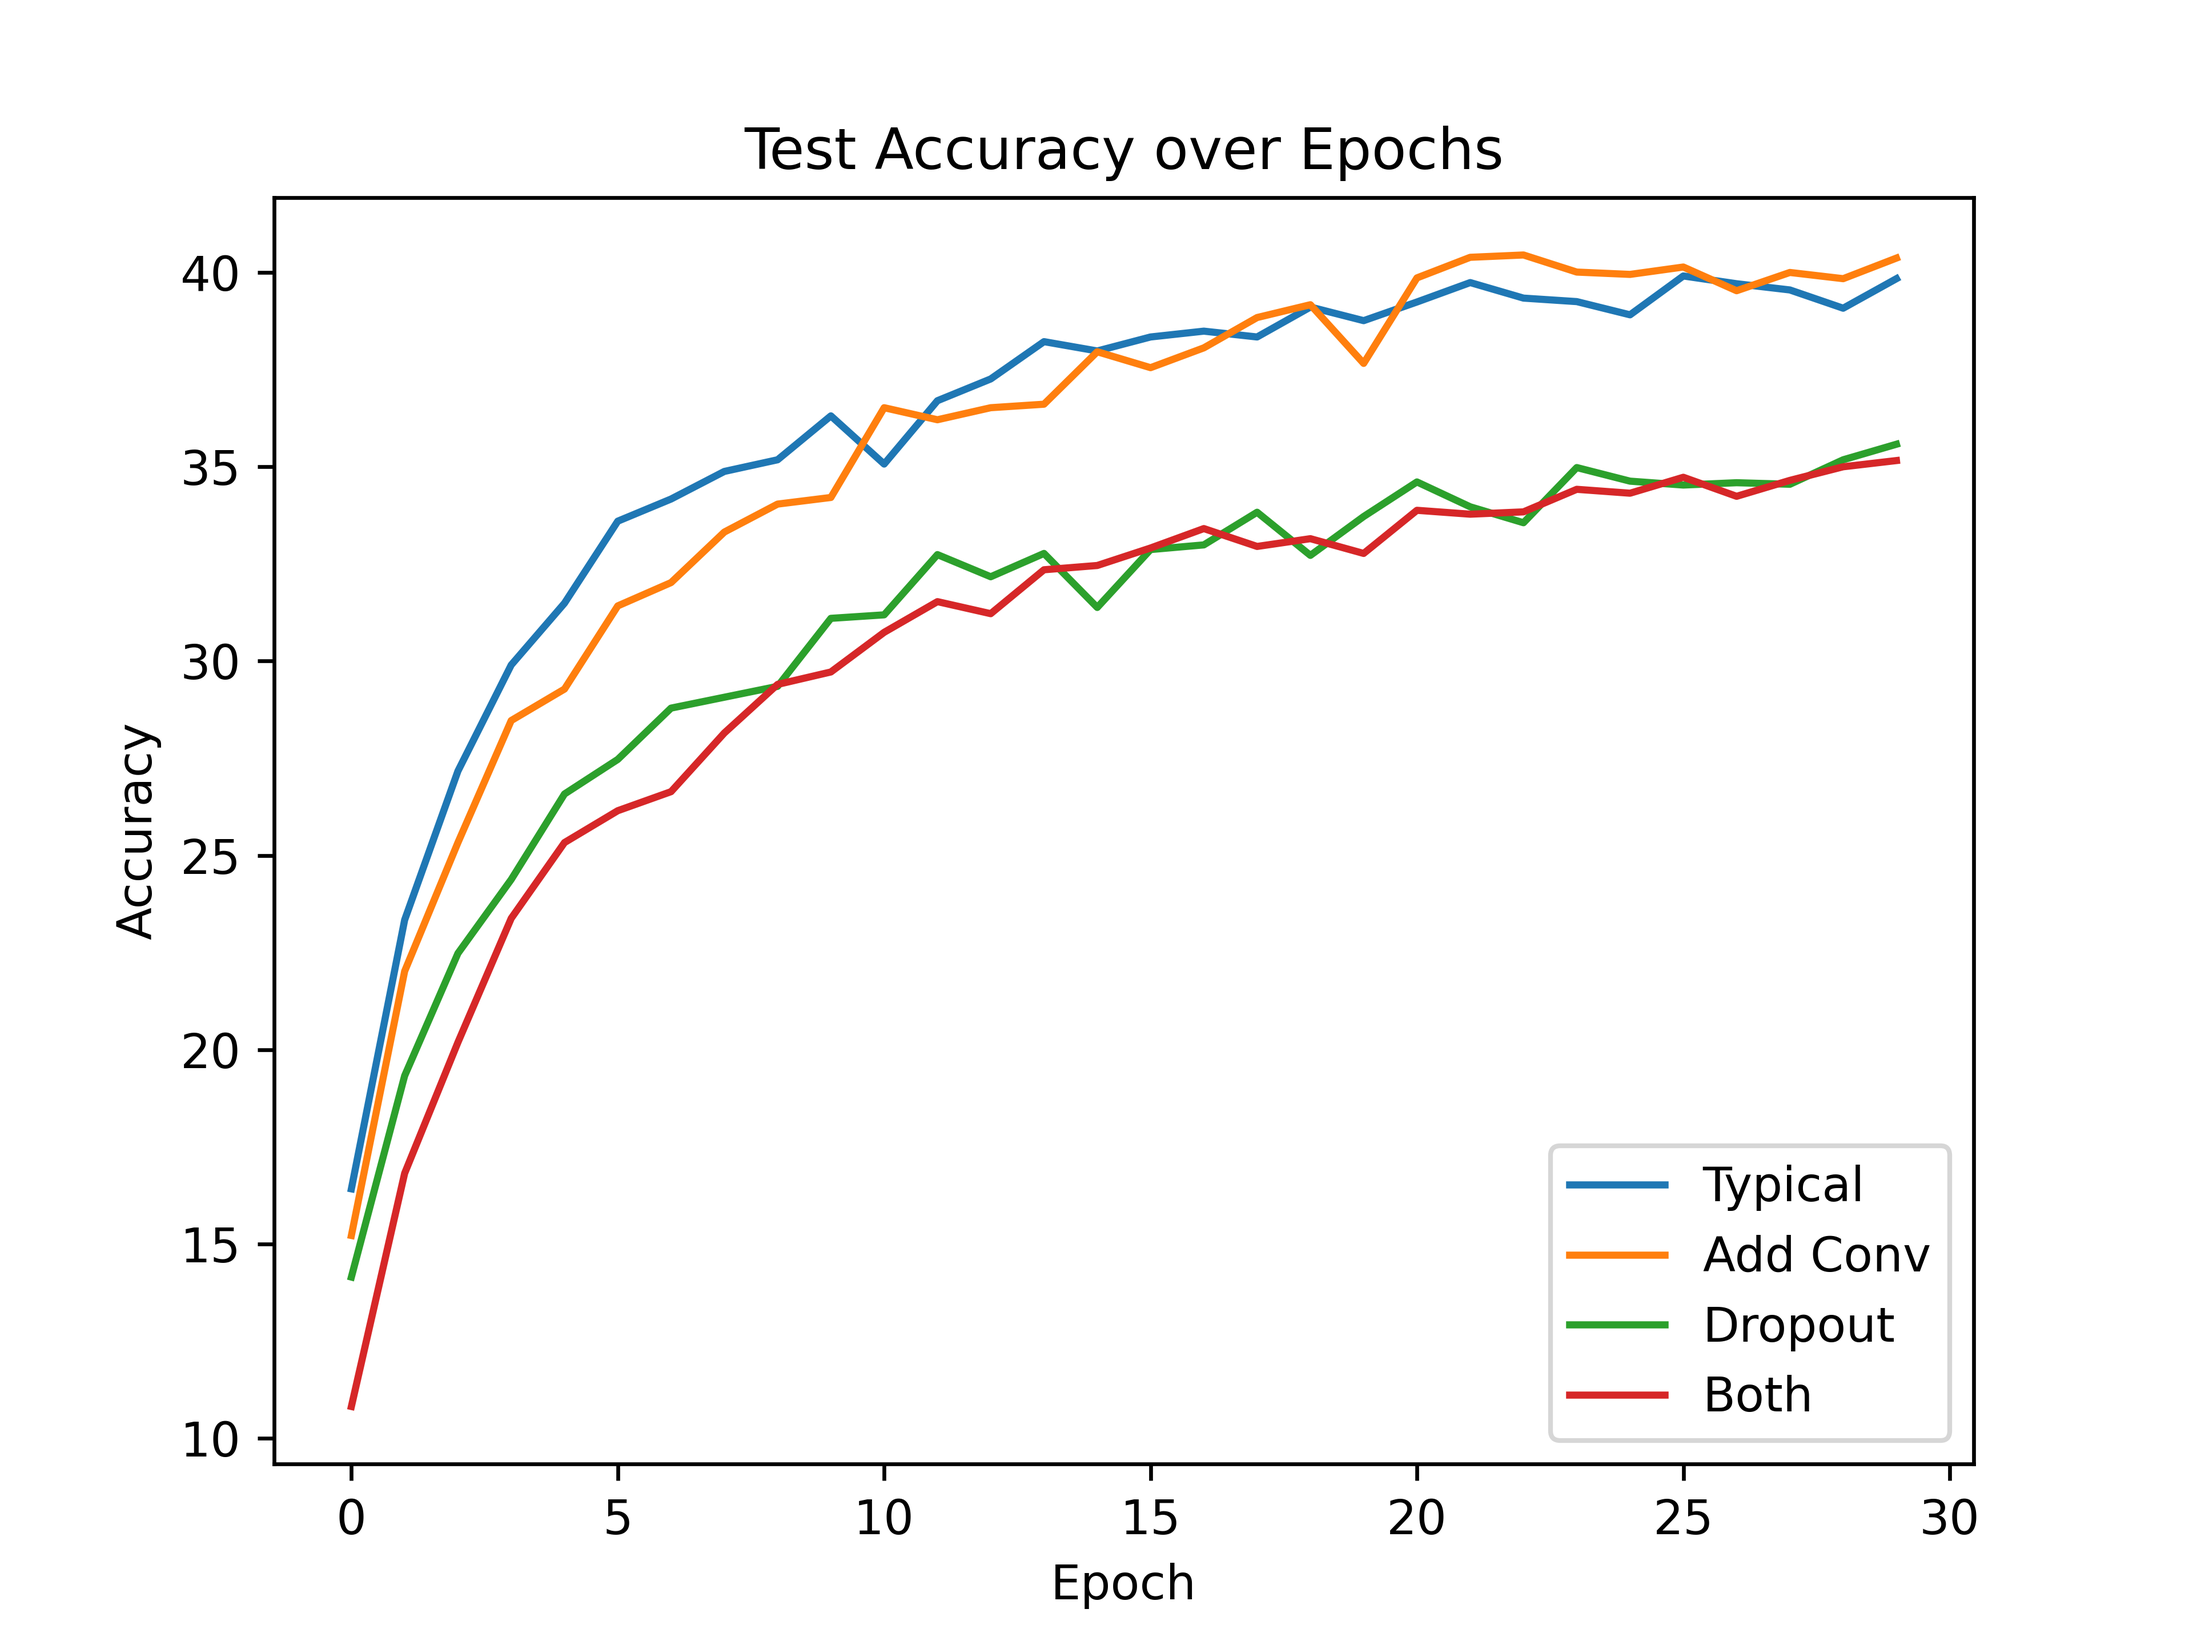
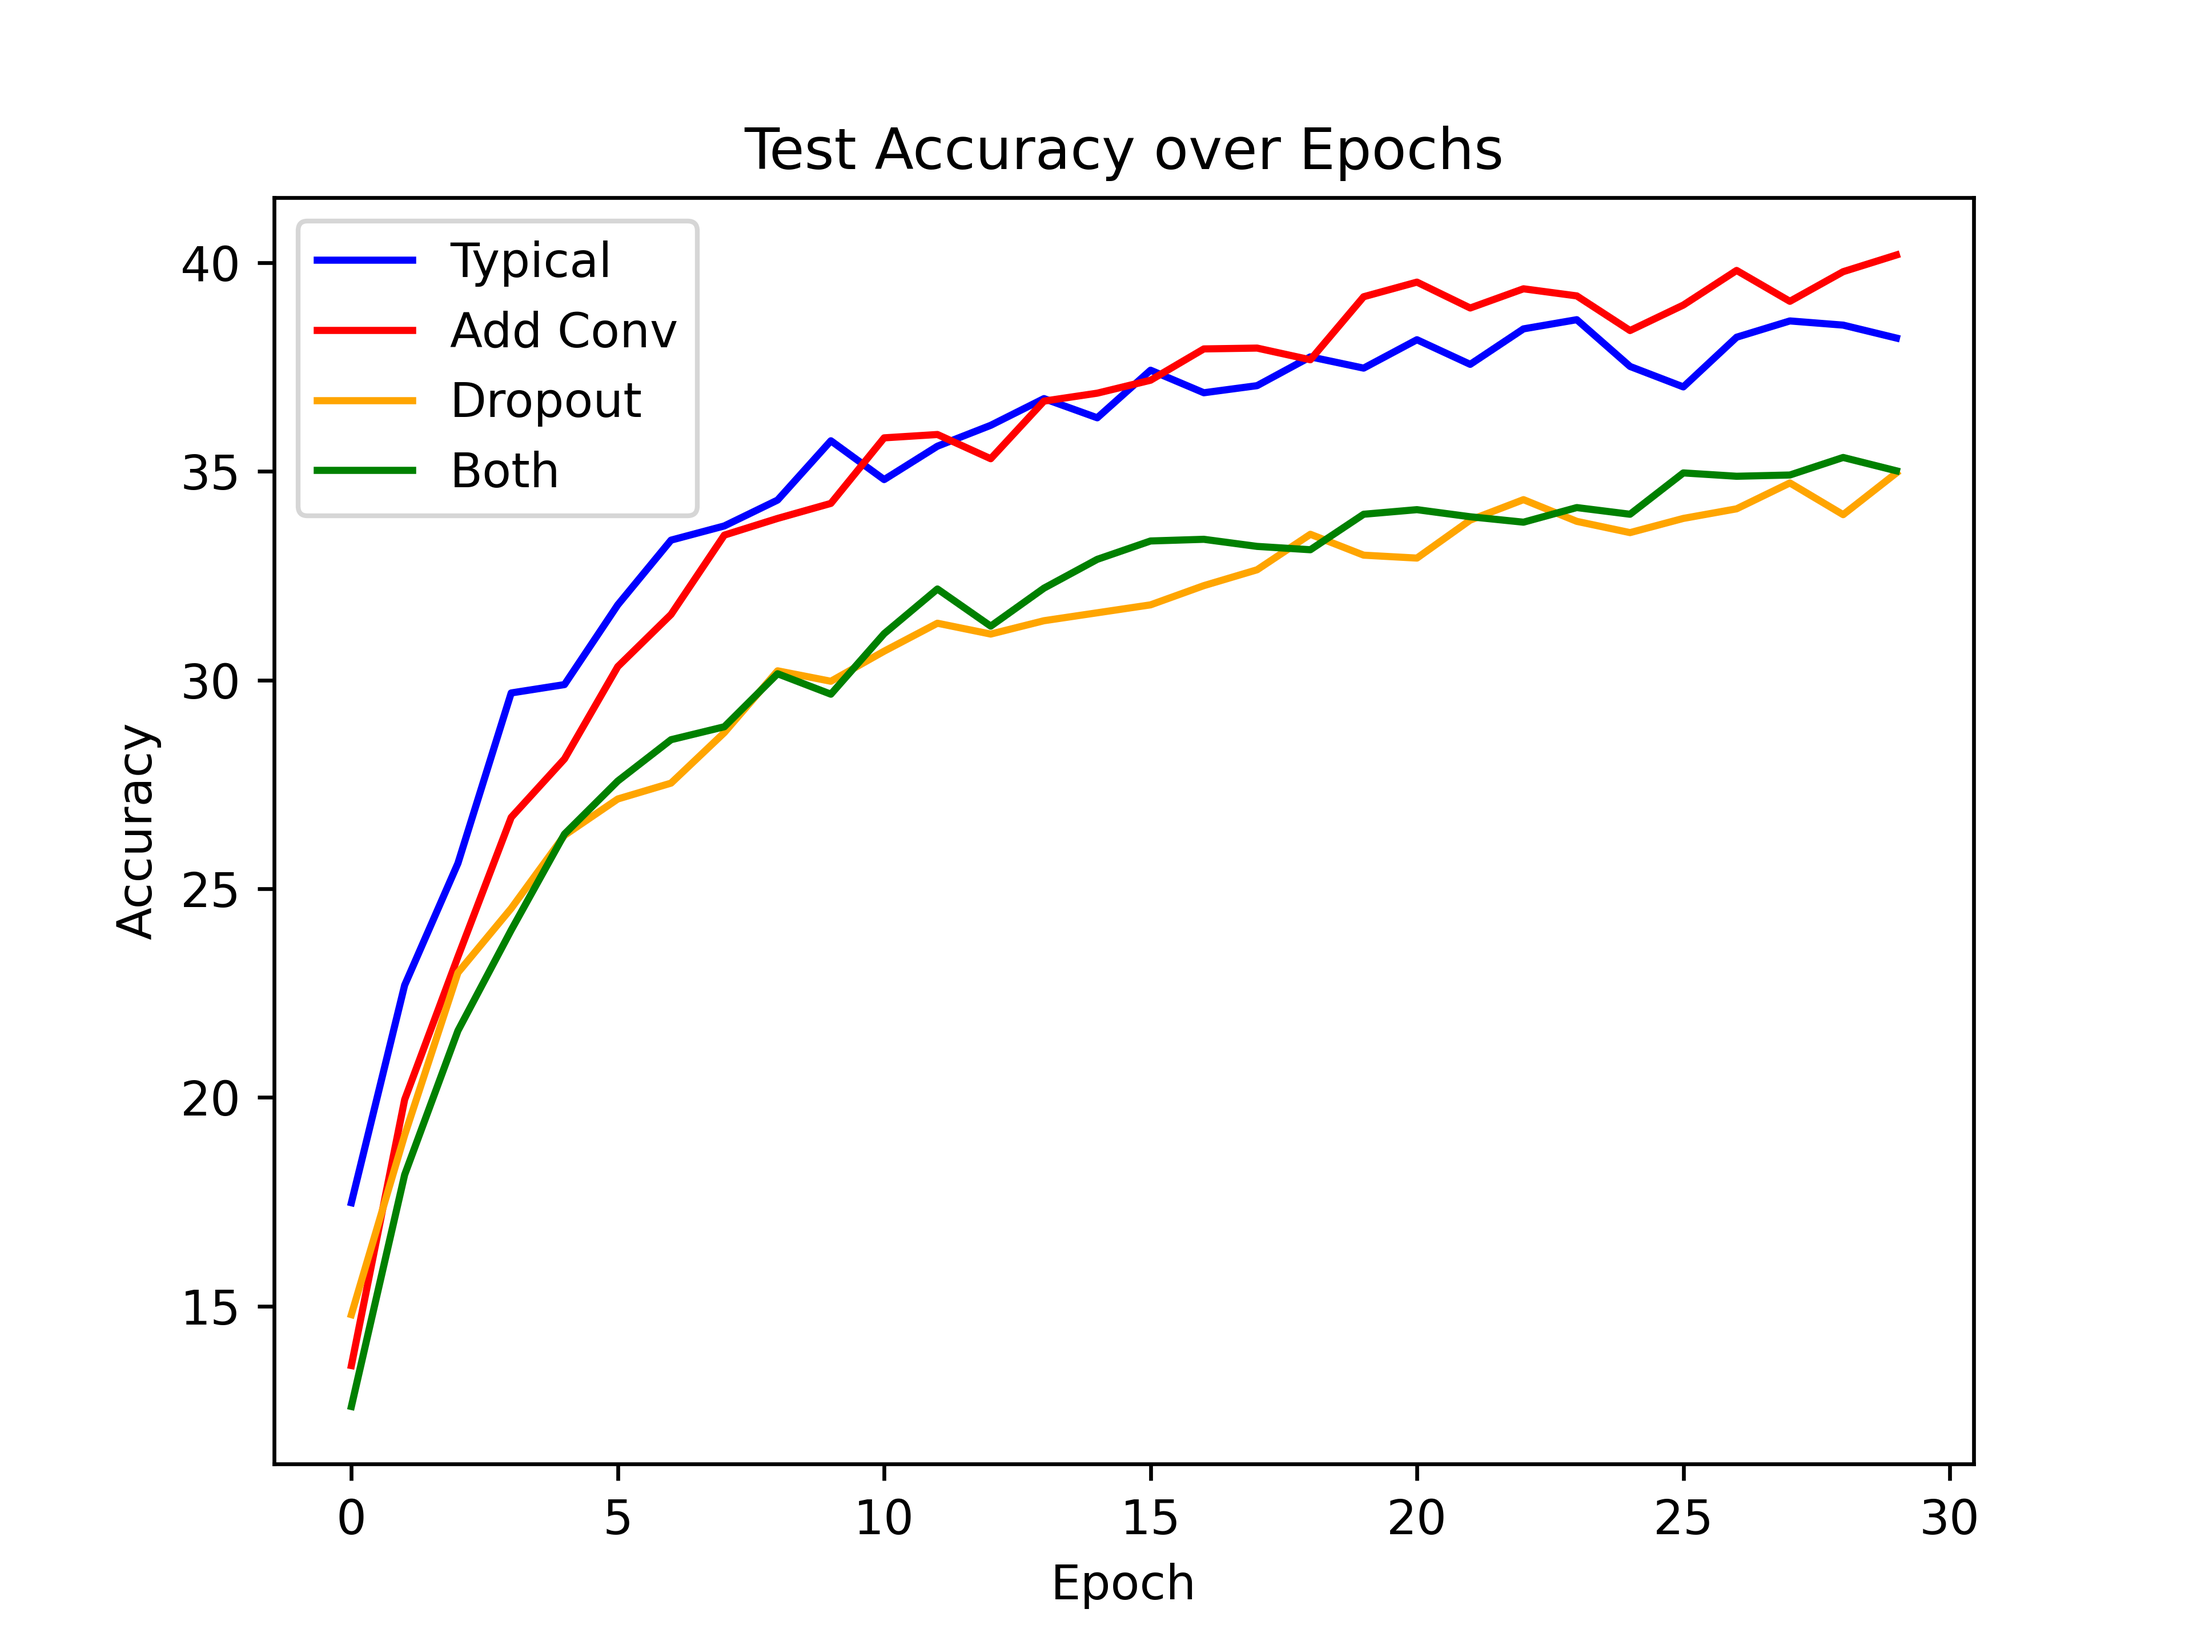
layer

diff --git a/PA1/test_layers.py b/PA1/test_layers.py
@@ -6,7 +6,7 @@ import matplotlib.pyplot as plt
 
 args = train.args
 train.total_epoch = 30
-args['dataset'] = 'cifar10'
+args['dataset'] = 'cifar100'
 
 # 经典 LeNet-5
 train.args = args
